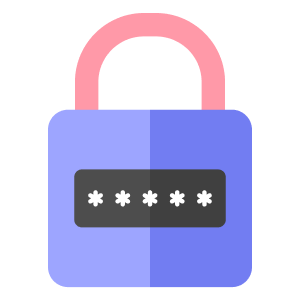
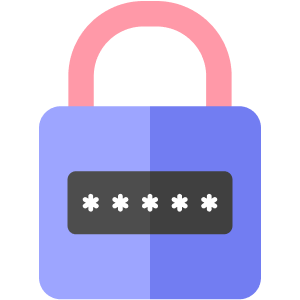
Refactor Backup and Restore screens for improved layout and localization
- Updated background colors in BackupScreen, RestoreFileScreen, and RestoreKeyScreen for visual consistency.
- Enhanced layout styles with new content containers and adjusted spacing for better user experience.
- Improved typography for better readability across various text elements.
- Updated localization strings for clarity, including a more descriptive success message for backups.
- Adjusted screen configurations to ensure consistent background color usage.

Changed region(s): [[0.12, 0.0, 0.87, 1.0], [0.21, 0.54, 0.78, 0.81], [0.57, 0.63, 0.63, 0.72]]

diff --git a/app/settings/backup.tsx b/app/settings/backup.tsx
@@ -40,7 +40,7 @@ export default function BackupScreen() {
   const completedRef = useRef(false);
 
   useEffect(() => {
-    const key = (backup as Extract<BackupPhase, { type: 'key_display' }>).key;
+    const key = keyRef.current;
     let cancelled = false;
 
     createBackupForKey(key)
@@ -139,14 +139,15 @@ export default function BackupScreen() {
         }}
       />
       <ScrollView
-        style={[commonStyles.scrollView, { backgroundColor: colors.panel, paddingTop: 16 }]}
+        style={[commonStyles.scrollView, { backgroundColor: colors.panel}]}
         contentContainerStyle={[scrollContentContainerWithSafeArea]}
         showsVerticalScrollIndicator={false}
         keyboardShouldPersistTaps="handled"
       >
-        <View>
+  
+        <View style={styles.contentContainer}>
           {backup.type === 'key_display' && (
-            <View style={styles.stepSection}>
+            <>
               <View style={styles.illustrationWrapper}>
                 <Image
                   source={require('../../assets/images/password.png')}
@@ -155,25 +156,26 @@ export default function BackupScreen() {
                 />
               </View>
 
-              <View
-                style={[
-                  styles.keyBox,
-                  { backgroundColor: colors.surface, borderColor: colors.neutral150 },
-                ]}
-              >
-                <Text style={[styles.keyText, { color: colors.textPrimary }]} selectable>
-                  {backup.key}
-                </Text>
+              <View style={[styles.copyKeyContainer, { backgroundColor: colors.surface}]}>
+                <View
+                  style={[
+                    styles.keyBox,
+                    { backgroundColor: colors.surface, borderColor: colors.neutral150 },
+                  ]}
+                >
+                  <Text style={[styles.keyText, { color: colors.textPrimary }]} selectable>
+                    {backup.key}
+                  </Text>
+                </View>
+                <Button
+                  variant="outlined"
+                  color={showCopiedFeedback ? colors.success : colors.primary}
+                  icon={showCopiedFeedback ? 'checkmark-outline' : 'copy-outline'}
+                  title={showCopiedFeedback ? t('backup.keyCopied') : t('backup.copyKey')}
+                  onPress={handleCopyKey}
+                  fullWidth
+                />
               </View>
-
-              <Button
-                variant="outlined"
-                color={showCopiedFeedback ? colors.success : colors.primary}
-                icon={showCopiedFeedback ? 'checkmark-outline' : 'copy-outline'}
-                title={showCopiedFeedback ? t('backup.keyCopied') : t('backup.copyKey')}
-                onPress={handleCopyKey}
-                fullWidth
-              />
 
               <View
                 style={[
@@ -182,8 +184,29 @@ export default function BackupScreen() {
                 ]}
               >
                 <InfoIcon size={20} color={colors.warning} style={styles.warningIcon} />
-                <Text style={[typography.body, { color: colors.textSecondary, flex: 1, fontSize: 15, lineHeight: 20, letterSpacing: 0.2 }]}>
-                  <Text style={[typography.body, { fontWeight: '600', fontSize: 15, lineHeight: 20, letterSpacing: 0.2 }]}>
+                <Text
+                  style={[
+                    typography.body,
+                    {
+                      color: colors.textSecondary,
+                      flex: 1,
+                      fontSize: 15,
+                      lineHeight: 20,
+                      letterSpacing: 0.2,
+                    },
+                  ]}
+                >
+                  <Text
+                    style={[
+                      typography.body,
+                      {
+                        fontWeight: '600',
+                        fontSize: 15,
+                        lineHeight: 20,
+                        letterSpacing: 0.2,
+                      },
+                    ]}
+                  >
                     {t('backup.keyWarningTitle')}
                   </Text>{' '}
                   {t('backup.keyWarning')}
@@ -196,11 +219,11 @@ export default function BackupScreen() {
                 disabled={!backup.keyCopied}
                 fullWidth
               />
-            </View>
+            </>
           )}
 
           {backup.type === 'save_file' && (
-            <View style={styles.centeredSection}>
+            <View style={styles.contentContainer}>
             <View style={styles.illustrationWrapper}>
               <Image
                 source={require('../../assets/images/password.png')}
@@ -209,10 +232,11 @@ export default function BackupScreen() {
               />
             </View>
 
+              <View style={styles.titleButtonContainer}>
               <Text
                 style={[
                   typography.headingMd,
-                  { color: colors.textPrimary, textAlign: 'center', marginBottom: 24, marginTop: 8, paddingHorizontal: 16, fontSize: 24, lineHeight: 28, fontWeight: '500'},
+                  { color: colors.textPrimary, fontSize: 28, lineHeight: 34, fontWeight: '600'},
                 ]}
               >
                 {t('backup.downloadReadyTitle')}
@@ -226,10 +250,11 @@ export default function BackupScreen() {
                 fullWidth
               />
             </View>
+            </View>
           )}
 
           {backup.type === 'success' && (
-            <View style={styles.centeredSection}>
+            <View style={styles.contentContainer}>
             <View style={styles.illustrationWrapper}>
               <Image
                 source={require('../../assets/images/password.png')}
@@ -238,10 +263,11 @@ export default function BackupScreen() {
               />
             </View>
 
+              <View style={styles.titleButtonContainer}>
               <Text
                 style={[
                   typography.headingMd,
-                  { color: colors.textPrimary, textAlign: 'center', marginBottom: 24, marginTop: 8, paddingHorizontal: 16, fontSize: 24, lineHeight: 28, fontWeight: '500'},
+                  { color: colors.textPrimary, fontSize: 28, lineHeight: 34, textAlign: 'center'},
                 ]}
               >
                 {t('backup.successTitle')}
@@ -253,6 +279,7 @@ export default function BackupScreen() {
                 fullWidth
               />
             </View>
+            </View>
           )}
         </View>
       </ScrollView>
@@ -261,12 +288,21 @@ export default function BackupScreen() {
 }
 
 const styles = StyleSheet.create({
-  stepSection: {
-    gap: 24,
+  contentContainer: {
+    gap: 32,
+    paddingVertical: 24,
   },
-  centeredSection: {
+  copyKeyContainer: {
+    gap: 16,
+    padding: 16,
+    borderRadius: 8,
+  },
+  titleButtonContainer: {
+    paddingHorizontal: 16,
+    gap: 32,
     alignItems: 'center',
-  },
+    },
+
   keyBox: {
     padding: 16,
     borderRadius: 8,
@@ -280,7 +316,6 @@ const styles = StyleSheet.create({
   },
   illustrationWrapper: {
     alignItems: 'center',
-    marginBottom: 8,
   },
   illustration: {
     width: 200,

diff --git a/app/settings/restore-key.tsx b/app/settings/restore-key.tsx
@@ -52,12 +52,12 @@ export default function RestoreKeyScreen() {
 
   return (
     <ScrollView
-      style={[commonStyles.scrollView, { backgroundColor: colors.surface, paddingTop: 16 }]}
+      style={[commonStyles.scrollView, { backgroundColor: colors.panel}]}
       contentContainerStyle={scrollContentContainerWithSafeArea}
       showsVerticalScrollIndicator={false}
       keyboardShouldPersistTaps="handled"
     >
-      <View style={styles.centeredSection}>
+      <View style={styles.contentSection}>
         <View style={styles.illustrationWrapper}>
           <Image
             source={require('../../assets/images/password.png')}
@@ -65,19 +65,17 @@ export default function RestoreKeyScreen() {
             resizeMode="contain"
           />
         </View>
+
         <View style={styles.keyInputSection}>
           <Text
             style={[
               typography.headingMd,
               {
                 color: colors.textPrimary,
+                fontSize: 28,
+                lineHeight: 34,
+                fontWeight: '600',
                 textAlign: 'center',
-                marginBottom: 16,
-                marginTop: 8,
-                paddingHorizontal: 16,
-                fontSize: 24,
-                lineHeight: 28,
-                fontWeight: '500',
               },
             ]}
           >
@@ -101,6 +99,7 @@ export default function RestoreKeyScreen() {
             autoCorrect={false}
             autoComplete="off"
           />
+        </View>
           <Button
             title={t('backup.restore.restoreButton')}
             onPress={handleRestore}
@@ -108,27 +107,29 @@ export default function RestoreKeyScreen() {
             loading={restoring}
             fullWidth
           />
-        </View>
       </View>
     </ScrollView>
   );
 }
 
 const styles = StyleSheet.create({
-  centeredSection: {
+  contentSection: {
     alignItems: 'center',
+    gap: 32,
+    paddingVertical: 24,
+    paddingHorizontal: 16,
   },
   illustrationWrapper: {
     alignItems: 'center',
     marginBottom: 8,
   },
   illustration: {
-    width: 190,
-    height: 170,
+    width: 200,
+    height: 200,
   },
   keyInputSection: {
-    gap: 12,
     width: '100%',
+    gap: 24,
   },
   keyInput: {
     borderWidth: 1,

diff --git a/app/settings/restore-file.tsx b/app/settings/restore-file.tsx
@@ -55,12 +55,12 @@ export default function RestoreFileScreen() {
 
   return (
     <ScrollView
-      style={[commonStyles.scrollView, { backgroundColor: colors.surface, paddingTop: 16 }]}
+      style={[commonStyles.scrollView, { backgroundColor: colors.panel}]}
       contentContainerStyle={scrollContentContainerWithSafeArea}
       showsVerticalScrollIndicator={false}
       keyboardShouldPersistTaps="handled"
     >
-      <View style={styles.centeredSection}>
+      <View style={styles.contentSection}>
         <View style={styles.illustrationWrapper}>
           <Image
             source={require('../../assets/images/password.png')}
@@ -73,13 +73,9 @@ export default function RestoreFileScreen() {
             typography.headingMd,
             {
               color: colors.textPrimary,
-              textAlign: 'center',
-              marginBottom: 24,
-              marginTop: 8,
-              paddingHorizontal: 16,
-              fontSize: 24,
-              lineHeight: 28,
-              fontWeight: '500',
+              fontSize: 28,
+              lineHeight: 34,
+              fontWeight: '600',
             },
           ]}
         >
@@ -98,15 +94,17 @@ export default function RestoreFileScreen() {
 }
 
 const styles = StyleSheet.create({
-  centeredSection: {
+  contentSection: {
     alignItems: 'center',
+    gap: 32,
+    paddingVertical: 24,
+    paddingHorizontal: 16,
   },
   illustrationWrapper: {
     alignItems: 'center',
-    marginBottom: 8,
   },
   illustration: {
-    width: 190,
-    height: 170,
+    width: 200,
+    height: 200,
   },
 });

diff --git a/styles/typography.ts b/styles/typography.ts
@@ -11,16 +11,18 @@ export const createTypography = (colors: ColorScheme) =>
     },
     headingMd: {
       fontSize: 22,
+      lineHeight: 28,
       fontWeight: '600',
       color: colors.textPrimary,
     },
     headingSm: {
       fontSize: 18,
+      lineHeight: 24,
       fontWeight: '600',
       color: colors.textPrimary,
     },
     body: {
-      fontSize: 16,
+      fontSize: 17,
       lineHeight: 22,
       fontWeight: '400',
       letterSpacing: 0.25,

diff --git a/config/screenConfig.ts b/config/screenConfig.ts
@@ -40,6 +40,7 @@ export const dynamicScreens: ScreenConfig[] = [
     headerShown: true,
     titleKey: 'settings:screenTitles.backup',
     headerShadowVisible: false,
+    backgroundColorKey: 'panel',
   },
   {
     name: 'settings/restore-file',
